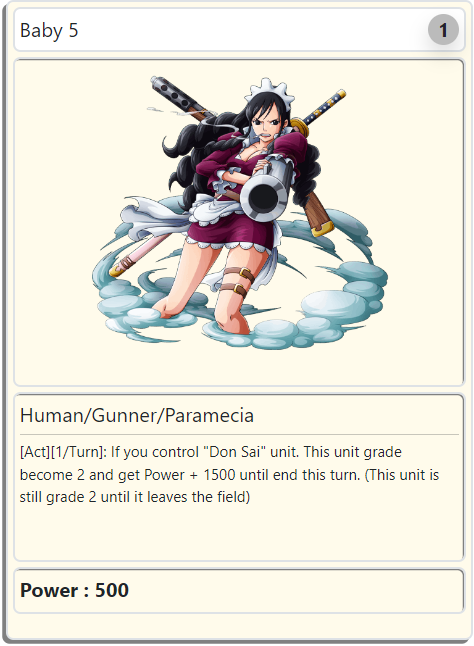
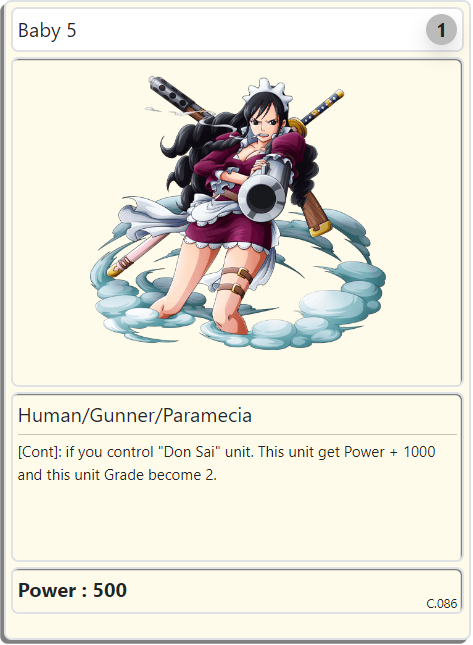
C086

diff --git a/src/views/index.vue b/src/views/index.vue
@@ -2912,7 +2912,8 @@ export default {
                 job: 'Spellcaster',
                 special: ''
               },
-              text: '[Auto]: When this unit is placed on battlefield. Put all unit your control other "Klahadore "Captain Kuro"" into bottom your deck. Draw a card for each unit put into bottom deck by this effect.',
+              text: '[Act][1/Turn]: Put a random card from drop zone into bottom of your deck. Draw a card',
+              // text: '[Auto]: When this unit is placed on battlefield. Put all unit your control other "Klahadore "Captain Kuro"" into bottom your deck. Draw a card for each unit put into bottom deck by this effect.',
               power: 500,
               code: '110'
             },
@@ -2926,7 +2927,8 @@ export default {
                 job: 'Fighter',
                 special: ''
               },
-              text: '[Auto]: When this unit is placed on battlefield. Stand all "Klahadore "Captain Kuro"" unit your control.',
+              text: '[Auto]: When this card is discarded. Stand all "Klahadore "Captain Kuro"" unit your control.',
+              // text: '[Auto]: When this unit is placed on battlefield. Stand all "Klahadore "Captain Kuro"" unit your control.',
               power: 500,
               code: '109'
             },
@@ -2940,7 +2942,8 @@ export default {
                 job: 'Fighter',
                 special: ''
               },
-              text: '[Auto]: When this unit is placed on battlefield. All "Klahadore "Captain Kuro"" unit your control get Power + 1000 until end this turn.',
+              text: '[Auto]: When this card is discarded. All "Klahadore "Captain Kuro"" unit your control get Power + 1000 until end this turn.',
+              // text: '[Auto]: When this unit is placed on battlefield. All "Klahadore "Captain Kuro"" unit your control get Power + 1000 until end this turn.',
               power: 500,
               code: '108'
             },
@@ -2954,7 +2957,8 @@ export default {
                 job: 'Swordman',
                 special: ''
               },
-              text: '[Auto]: When this unit attack. Pay 500 life points. Call random card from your hand.',
+              text: '[Auto]: When this unit attack. Pay 500 life points and discard a random card from your hand. Call up to one `Klahadore "Captain Kuro"` from your deck. Shuffle your deck.',
+              // text: '[Auto]: When this unit attack. Pay 500 life points. Call random card from your hand.',
               power: 500,
               code: '107'
             },
@@ -2968,7 +2972,8 @@ export default {
                 job: 'Fighter',
                 special: ''
               },
-              text: '[Auto]: When this unit is placed on battlefield. All your grade 1 unit get Power + 500 until end this turn.',
+              text: '[Auto]: When this unit attack. This unit get Power + 1000, until end of turn.',
+              // text: '[Auto]: When this unit is placed on battlefield. All your grade 1 unit get Power + 500 until end this turn.',
               power: 500,
               code: '106'
             },
@@ -2996,7 +3001,8 @@ export default {
                 job: 'Fighter',
                 special: 'Paramecia'
               },
-              text: '[Auto]: When this unit is placed on battlefield. Call up to one "Cabaji" and "Mohji" from your deck. Shuffle your deck.',
+              text: '[Auto]: When this unit is placed on battlefield. Discard a random card from your hand. Call up to one "Cabaji" and "Mohji" from your deck. Shuffle your deck.',
+              // text: '[Auto]: When this unit is placed on battlefield. Call up to one "Cabaji" and "Mohji" from your deck. Shuffle your deck.',
               power: 500,
               code: '104'
             },
@@ -3220,7 +3226,8 @@ export default {
                 job: 'Fighter',
                 special: 'Sulong'
               },
-              text: '[Auto]: At the end your phase. Put this unit into bottom your deck. Call up to one random Grade 2 "Carrot" in its card name from your deck. Shuffle your deck. [Cont]: All "Sulong" unit your control get Power + 1000.',
+              text: '[Auto]: At the end of your turn. Put this unit into bottom of your deck. Call up to one Grade 2 "Carrot" from your deck. Shuffle your deck. [Act][1/Turn]: Discard a random card from your hand. All "Sulong" unit your control get Power + 1000 until end of turn.',
+              // text: '[Auto]: At the end your phase. Put this unit into bottom your deck. Call up to one random Grade 2 "Carrot" in its card name from your deck. Shuffle your deck. [Cont]: All "Sulong" unit your control get Power + 1000.',
               power: 2500,
               code: '088'
             },
@@ -3234,7 +3241,8 @@ export default {
                 job: 'Fighter',
                 special: ''
               },
-              text: '[Act]: Put this unit into bottom your deck. Call up to one Grade 3 "Carrot" in its card name from your deck. Shuffle your deck.',
+              text: '[Auto]: When this unit block. Draw a card. [Act]: Put this unit into bottom of your deck. Call up to one Grade 3 "Carrot" from your deck. Shuffle your deck.',
+              // text: '[Act]: Put this unit into bottom your deck. Call up to one Grade 3 "Carrot" in its card name from your deck. Shuffle your deck.',
               power: 1500,
               code: '087'
             },
@@ -3248,7 +3256,7 @@ export default {
                 job: 'Gunner',
                 special: 'Paramecia'
               },
-              text: '[Act][1/Turn]: If you control "Don Sai" unit. This unit grade become 2 and get Power + 1500 until end this turn. (This unit is still grade 2 until it leaves the field)',
+              text: '[Cont]: if you control "Don Sai" unit. This unit get Power + 1000 and this unit Grade become 2.',
               power: 500,
               code: '086'
             },
@@ -3263,7 +3271,6 @@ export default {
                 special: ''
               },
               text: '[Cont]: if you control "Kozuki" unit. This unit get Power + 1000.',
-              // text: '[Cont]: This unit get Power + 500 for each "Kozuki" unit your control.',
               power: 500,
               code: '085'
             },

diff --git a/src/views/arena/new-arena/index.vue b/src/views/arena/new-arena/index.vue
@@ -2060,6 +2060,61 @@ export default {
         this.CONT_POWER(data)
       }
     },
+    CONT_GRADE (data) {
+      if (data.who === 'player') {
+        data.field = this.data.player.field
+      } else {
+        data.field = this.data.opponent.field
+      }
+      if (data.location === 'unit F1') {
+        data.unit = data.field.front.unitF1
+      }
+      if (data.location === 'unit F2') {
+        data.unit = data.field.front.unitF2
+      }
+      if (data.location === 'unit F3') {
+        data.unit = data.field.front.unitF3
+      }
+      if (data.location === 'unit B1') {
+        data.unit = data.field.back.unitB1
+      }
+      if (data.location === 'unit B2') {
+        data.unit = data.field.back.unitB2
+      }
+      if (data.location === 'unit B3') {
+        data.unit = data.field.back.unitB3
+      }
+      data.unit.card.grade = data.grade
+      // data.unit.gain.cont = data.gain
+      // data.unit.power = data.unit.card.power + data.unit.gain.auto + data.unit.gain.cont
+    },
+    COUNT_GRADE_WITH_OTHER_UNIT_NAME (data) {
+      let count = 0
+      let field = {}
+      if (data.who === 'player') {
+        field = this.data.player.field
+      } else {
+        field = this.data.opponent.field
+      }
+      const unitF1 = field.front.unitF1
+      const unitF2 = field.front.unitF2
+      const unitF3 = field.front.unitF3
+      const unitB1 = field.back.unitB1
+      const unitB2 = field.back.unitB2
+      const unitB3 = field.back.unitB3
+      if (unitF1.isUnit && unitF1.card.name.search(data.name) >= 0) { count += 1 }
+      if (unitF2.isUnit && unitF2.card.name.search(data.name) >= 0) { count += 1 }
+      if (unitF3.isUnit && unitF3.card.name.search(data.name) >= 0) { count += 1 }
+      if (unitB1.isUnit && unitB1.card.name.search(data.name) >= 0) { count += 1 }
+      if (unitB2.isUnit && unitB2.card.name.search(data.name) >= 0) { count += 1 }
+      if (unitB3.isUnit && unitB3.card.name.search(data.name) >= 0) { count += 1 }
+      if (count > 0) {
+        this.CONT_GRADE(data)
+      } else {
+        data.grade = data.gradeOri
+        this.CONT_GRADE(data)
+      }
+    },
     EFF_AUTO (data) {
       if (data.condition === 'AUTO ON ATK') { this.AUTO_ON_ATK(data) }
       if (data.condition === 'AUTO ON DEF') { this.AUTO_ON_DEF(data) }
@@ -2457,6 +2512,8 @@ export default {
         if (unit.code === '074') { this.EFF074_CONT({ who: 'player', location: unit.location }) }
         if (unit.code === '075') { this.EFF075_CONT({ who: 'player', location: unit.location }) }
         if (unit.code === '076') { this.EFF076_CONT({ who: 'player', location: unit.location }) }
+        if (unit.code === '085') { this.EFF085({ who: 'player', location: unit.location }) }
+        if (unit.code === '086') { this.EFF086({ who: 'player', location: unit.location }) }
       })
     },
     CONT_OPPONENT (data) {
@@ -2490,6 +2547,8 @@ export default {
         if (unit.code === '074') { this.EFF074_CONT({ who: 'opponent', location: unit.location }) }
         if (unit.code === '075') { this.EFF075_CONT({ who: 'opponent', location: unit.location }) }
         if (unit.code === '076') { this.EFF076_CONT({ who: 'opponent', location: unit.location }) }
+        if (unit.code === '085') { this.EFF085({ who: 'opponent', location: unit.location }) }
+        if (unit.code === '086') { this.EFF086({ who: 'opponent', location: unit.location }) }
       })
     },
     COST (data) {
@@ -4630,6 +4689,19 @@ export default {
       } else {
         this.Toast('error', 'Mana tidak cukup !!!')
       }
+    },
+    EFF085 (data) { // Denjiro
+      data.name = 'Kozuki'
+      data.gain = 1000
+      this.COUNT_POWER_WITH_OTHER_UNIT_NAME(data)
+    },
+    EFF086 (data) { // Baby 5
+      data.name = 'Don Sai'
+      data.gain = 1000
+      data.gradeOri = 1
+      data.grade = 2
+      this.COUNT_POWER_WITH_OTHER_UNIT_NAME(data)
+      this.COUNT_GRADE_WITH_OTHER_UNIT_NAME(data)
     }
   },
   created () {
